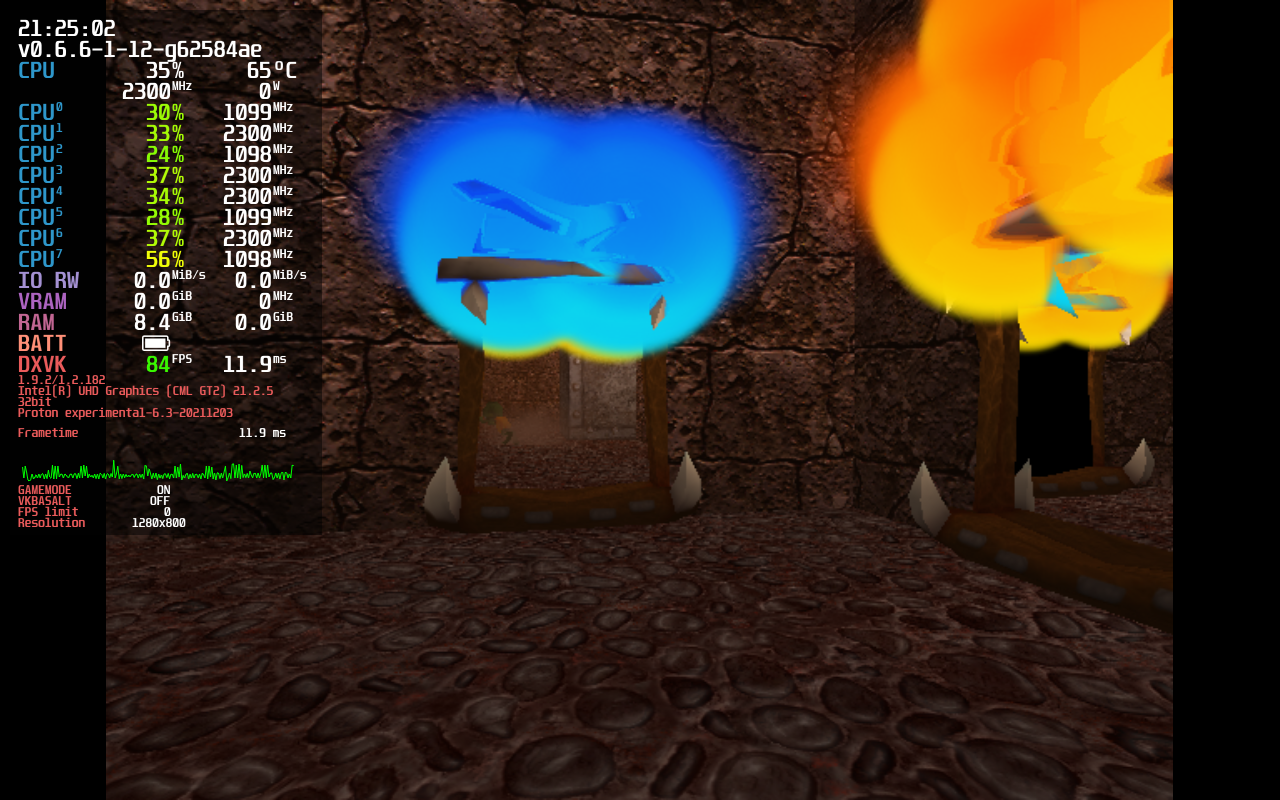
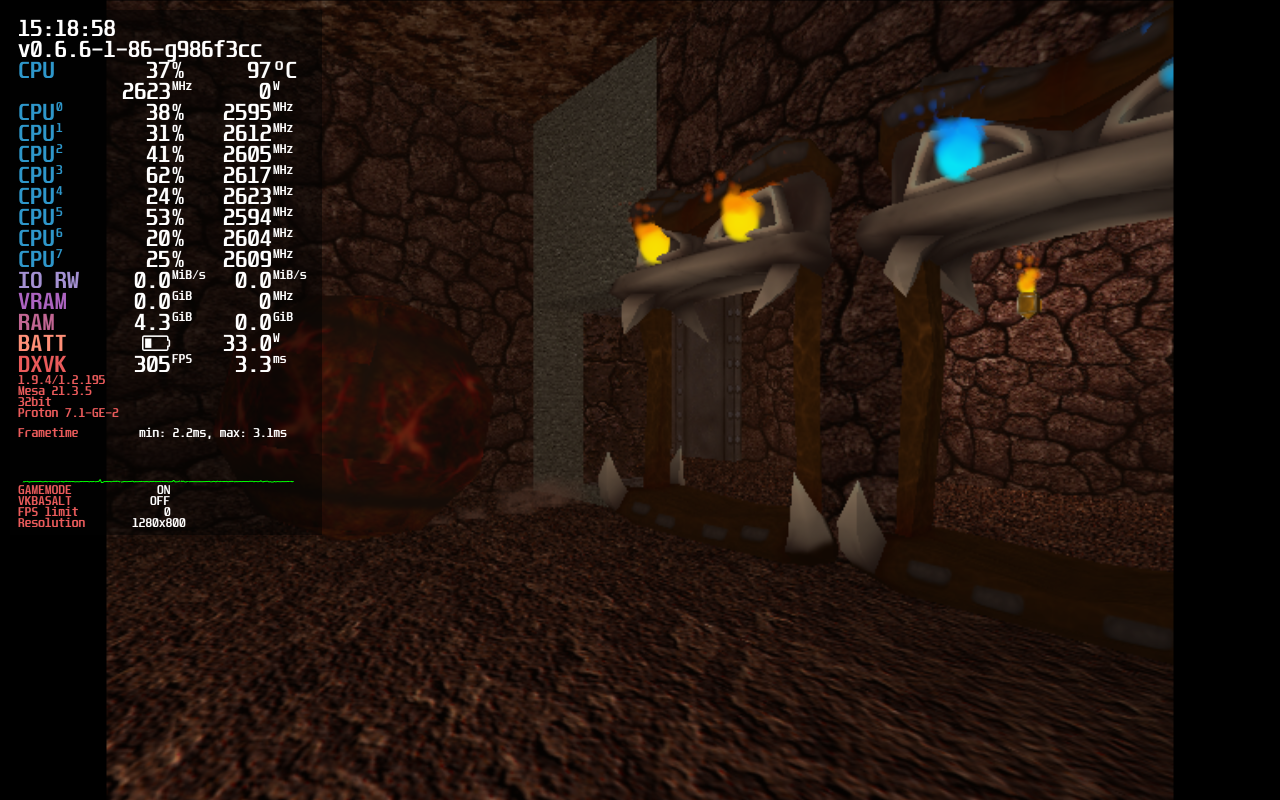
narbacular drop update + alice
this is your fault civvie

diff --git a/pages/projects/linuxnotes.html b/pages/projects/linuxnotes.html
@@ -812,9 +812,8 @@
                     Technology: Unknown, Direct3D<br/>
                     Controller support: None (Steam Input gets the job done)<br/>
                     Notes:<br/>
-                     - Occasional crashes, related to uncapped framerate?<br/>
-                     - Oversized flames in torches and portals. <a href="https://github.com/doitsujin/dxvk/issues/2387">GitHub issue</a><br/>
-                    <img src="assets/img/projects/linuxnotes/silver.png"><br/>
+                     - Limiting the framerate would probably be a good idea.<br/>
+                    <img src="assets/img/projects/linuxnotes/platinum.png"><br/>
                     <img class="preview" src="assets/img/projects/linuxnotes/narbaculardrop1.png"><br/>
                     </p>
                     <h3 id="MicroMages">Micro Mages</h3>
@@ -2663,6 +2662,25 @@
                     <img src="assets/img/projects/linuxnotes/gold.png"><br/>
                     <img class="preview" src="assets/img/projects/linuxnotes/df2_1.png"><br/>
                     Screenshot note: Game is rendered in WineD3D, i'm using Gamescope here. Also using Proton-7.1-GE-2.<br/>
+                    </p>
+                    <h3 id="alice">American McGee's Alice (2011 Re-Release)</h3>
+                    <p>
+                    Proton (Any modern version)<br/>
+                    Technology: idTech 3, OpenGL<br/>
+                    Controller Support: <br/>
+                     - All controllers had issues with ignoring Steam Input.<br/>
+                    Installation:<br/>
+                     - I located a 7z of this game<br/>
+                     - Extract the 7z to the folder of your choosing<br/>
+                     - Add bin/alice.exe to Steam and run it once.<br/>
+                     - Using ProtonTricks, locate the WinePrefix.<br/>
+                     - Copy bin/base/config.cfg to $PREFIX/drive_c/users/steamuser/Documents/My Games/American McGee's Alice. This will give proper controller support.<br/>
+                     - Add the -RunningFromAlice2 flag to the game's launch options.<br/>
+                    Notes:<br/>
+                     - None?<br/>
+                    <img src="assets/img/projects/linuxnotes/gold.png"><br/>
+                    <img class="preview" src="assets/img/projects/linuxnotes/alice1.png"><br/>
+                    Screenshot note: GloriousEggroll was used here.<br/>
                     </p>
                     <br/>
                     <h2 id="Technology">Technology Compatibility</h3>
